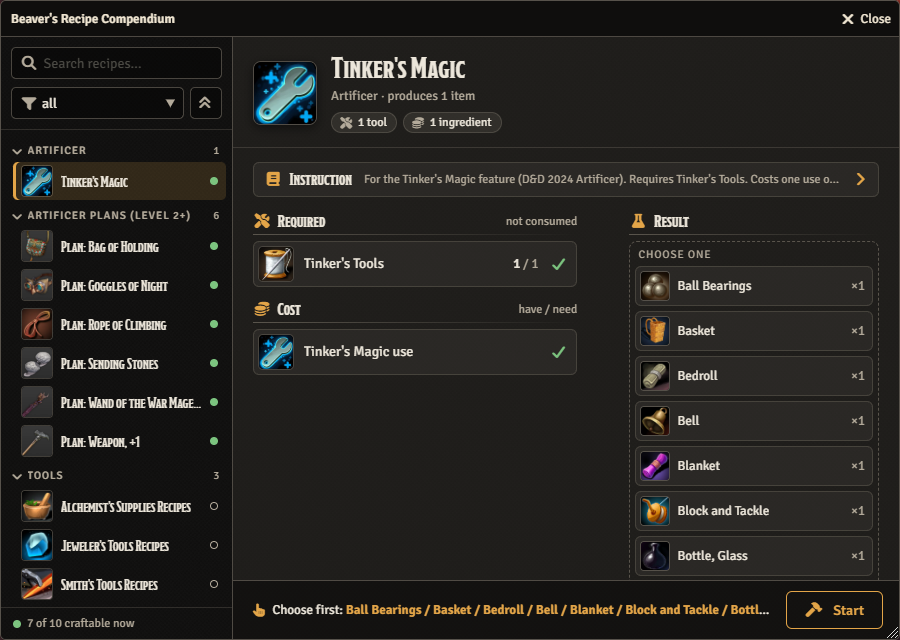
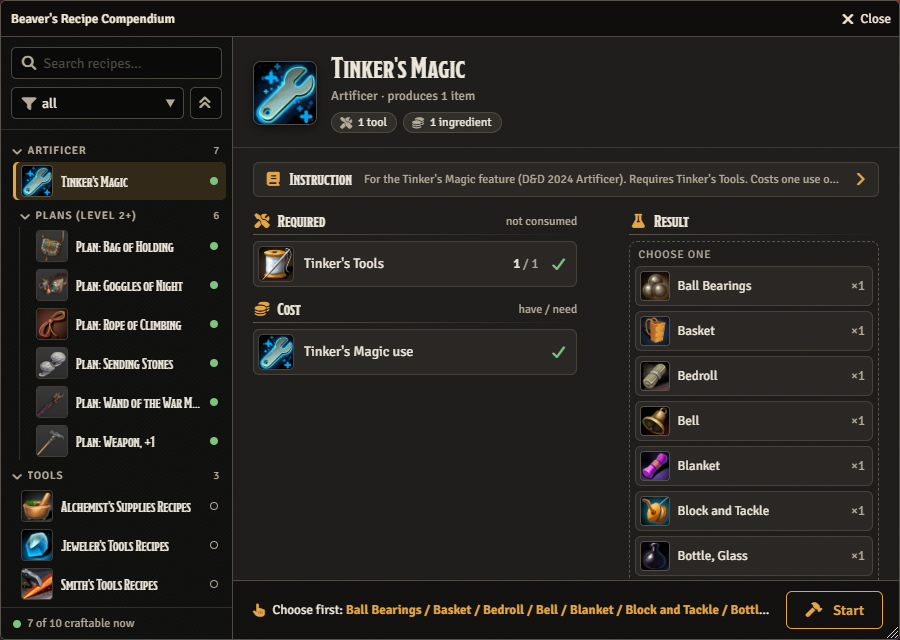
release v1.0.0

Changed region(s): [[0.0, 0.3125, 0.2178, 0.7188]]

diff --git a/README.md b/README.md
@@ -10,10 +10,30 @@ Artificer recipes for [Beaver's Crafting](https://github.com/AngryBeaver/beavers
 Requires Beaver's Crafting 4.13.0 or newer. Set the Beaver's Crafting setting "Recipes use required Items" on,
 so the requirements (Tinker's Tools, Artificer level) are checked.
 
-The compendium **D&D 2024 Artificer Recipes** has the folders "Tinker's Magic", "Replicate Magic Item" (the plans,
-by Artificer level) and "Scripts". The rules themselves are in the book; the recipes only name the features and the items.
+## What you get
+The compendium **D&D 2024 Artificer Recipes** with:
+- **Tinker's Magic**: one recipe, choose the item you make. Costs a use of the feature, the items are gone after the
+  next long rest.
+- **Replicate Magic Item**: 56 plans in folders by the Artificer level they need (2, 6, 10, 14). Put a plan on the
+  Artificer to learn it. The number of items per long rest and held at once follows the Artificer level, the oldest
+  item vanishes, items are attuned when they are made, +1 / +2 plans let you choose the base item.
+- **Scripts** that check the requirements and count the uses.
+- In the crafting window everything is in the folder "Artificer": Tinker's Magic and the plans by level below it.
+- The items come from the Dungeon Master's Guide and Player's Handbook modules when they are active, otherwise from
+  the SRD.
 
-[Screenshot: the compendium with Tinker's Magic and three plans of Replicate Magic Item](media/compendium-plans.png)
+The rules themselves are in the book; the recipes only name the features and the items.
+
+![The compendium with Tinker's Magic and three plans of Replicate Magic Item](media/compendium-plans.png)
+
+## What you need
+- **The Artificer**: the D&D 2024 Artificer is not in the SRD 5.2. You need the book with the Artificer and its class
+  and features (Tinker's Magic, Replicate Magic Item) on your actors. This module brings only the recipes, not the
+  class or its rules.
+- **The items**: most plans make items of the SRD 5.2, which dnd5e brings along. With the Dungeon Master's Guide and
+  Player's Handbook modules active, their versions are used. The plans of the Artificer's own book (Manifold Tool,
+  Repeating Shot, …) make items that are in no free compendium: put those items from your book in a compendium or the
+  world, see [Which item you get](#which-item-you-get).
 
 ## Which item you get
 Every result is looked up when it is crafted, by its name and item type:
